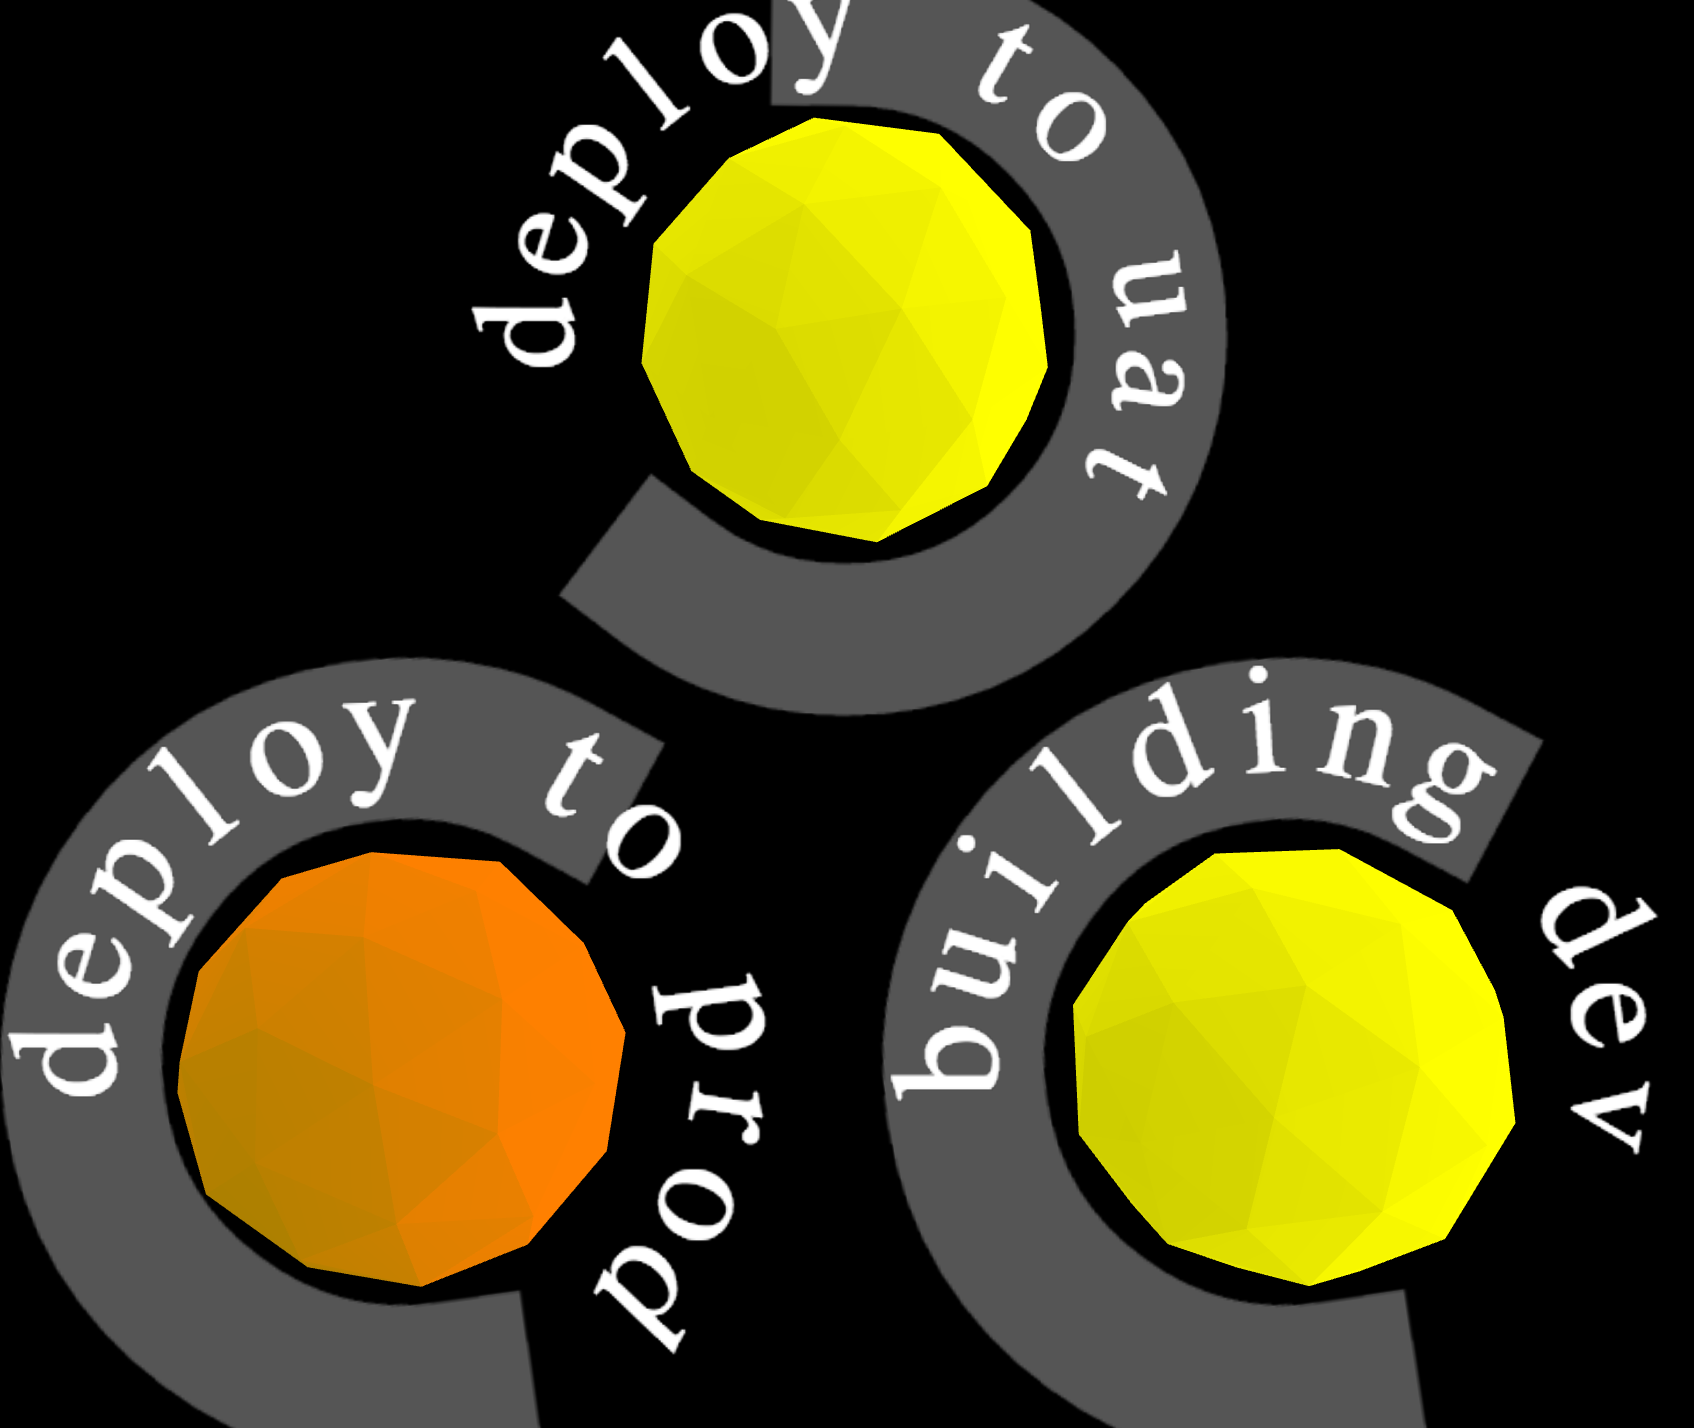
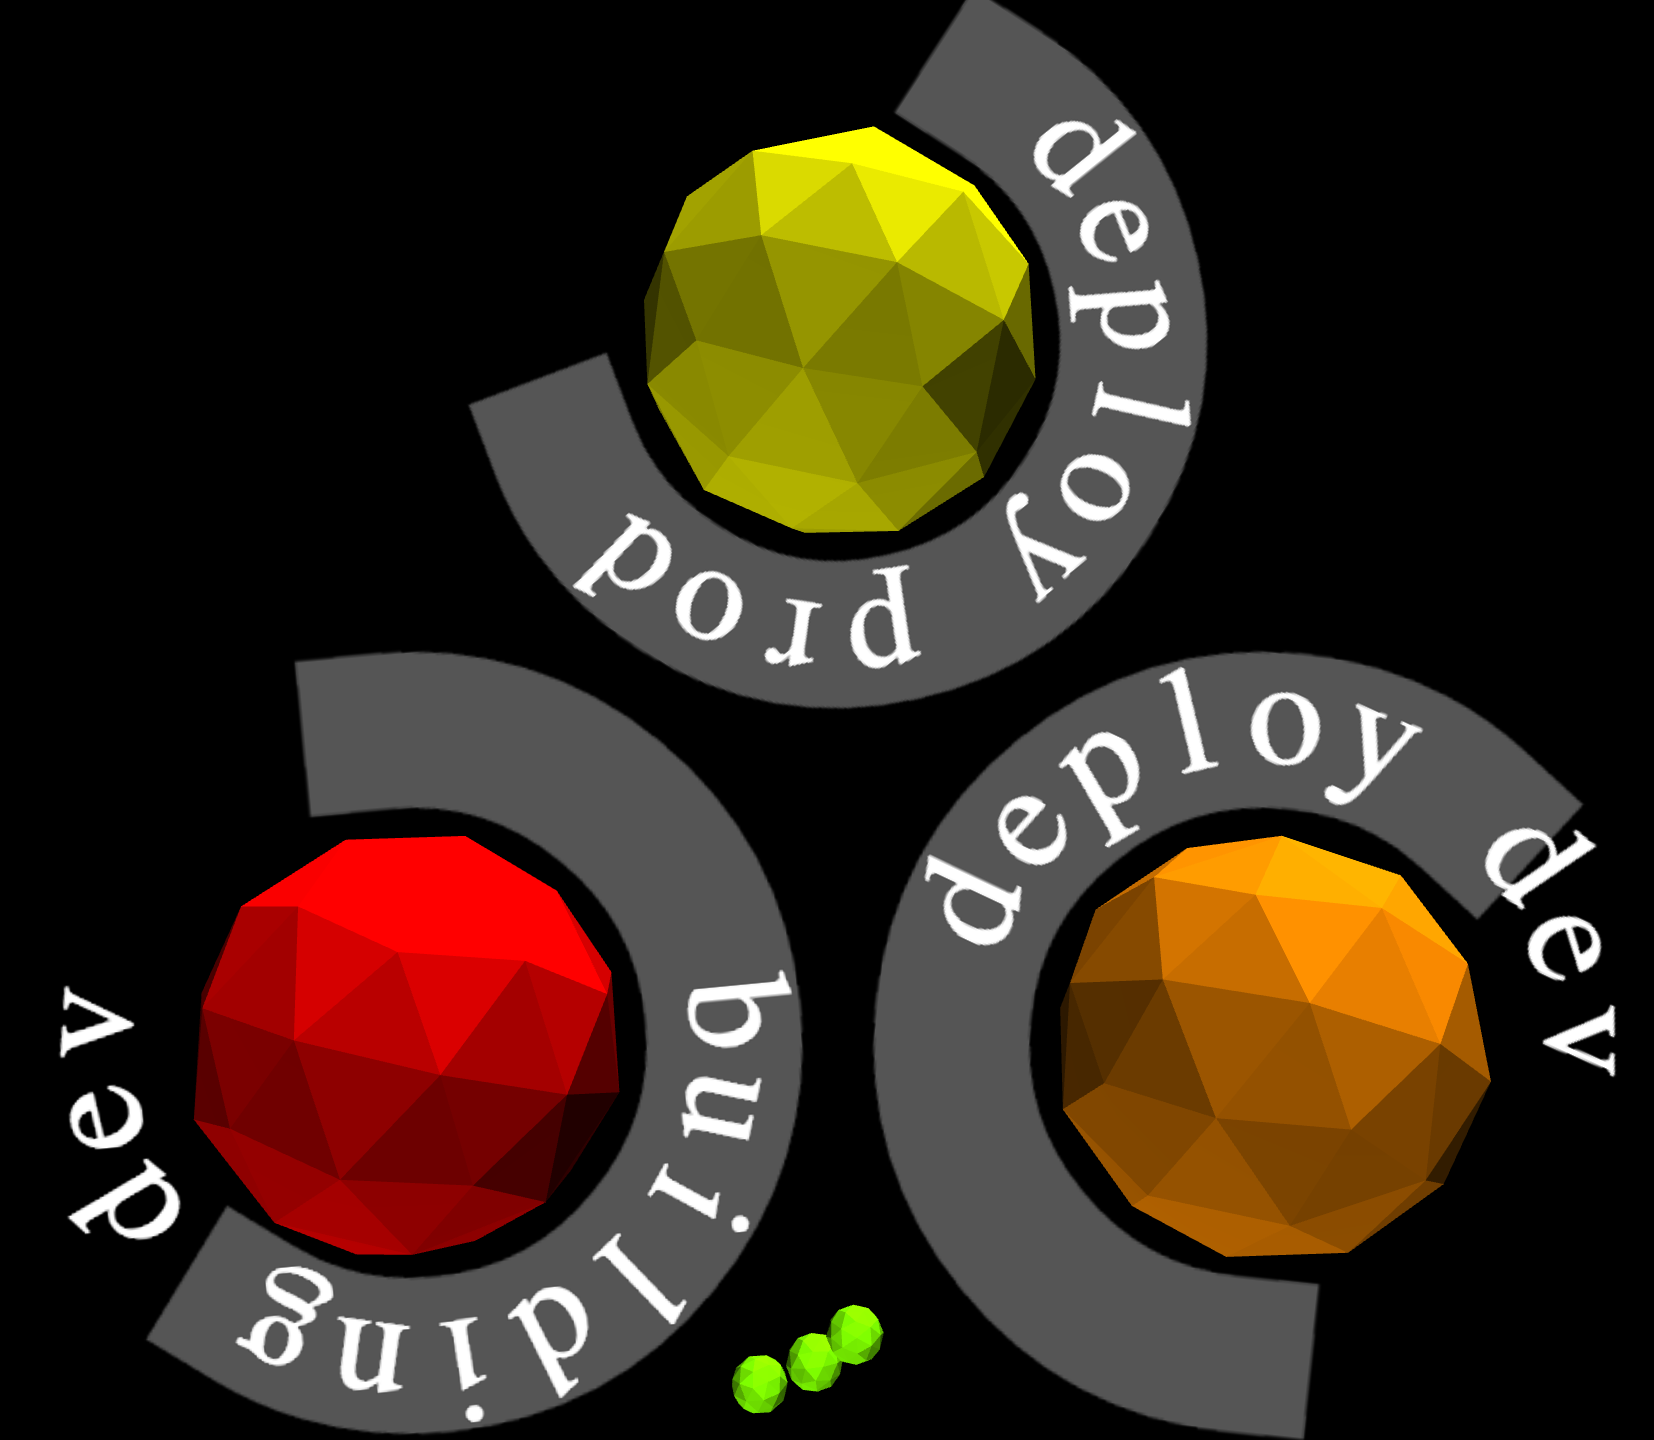
sanitised readme

diff --git a/README.md b/README.md
@@ -1,6 +1,17 @@
 # Balls
 
-A CI build radiator that radiates Balls worth looking at.
+If you want a build monitor/radiator, it should be worth looking at.
+
+Build monitors needs to be fun. Anyone can develop plain old html/css grid based view, play sounds etc.
+That stuff is like flash, old and needs to be replaced.
+
+Put this monitor on a TV, and you will never go back to any other monitor.
+A word of caution: You will find this radiator hard to look away from and may not be able to focus on your work.
+
+### Screenshots
+
+![Green balls](docs/all-green-balls.png)
+![Building balls](docs/balls-building.png)
 
 ### Setup without server side config
 
@@ -8,7 +19,7 @@ A CI build radiator that radiates Balls worth looking at.
 	2. launch browser at <hostname>:3000
 	3. Setup config right there.
 
-	Different teams can have their Balls pointing to their own CI server via browser config.
+	Since the config is UI based, different teams have full control over their configuration.
 
 ### Setup with server side config
 
@@ -17,30 +28,34 @@ A CI build radiator that radiates Balls worth looking at.
 	2. lein ring server
 	3. launch browser at <hostname>:3000
 
-	Note: You can still do custom include/exclude from browser.
-	All teams using will have their Balls pointing to the same CI server.
+	You cannot override cctray url. You can still do custom include/exclude from browser.
 
 ### Sounds
 
-Its understandable that you want your own sounds for your Balls.
+We love sounds. Sounds are played at 2 different event.
 
-	1. Copy your audio file(s) in resources/sounds folder. No need to restart Balls server.
+	1. When the build breaks.
+	2. When the build succeeds after it breaks.
+
+To have custom sounds:
+
+	1. Copy your audio file(s) in resources/sounds folder. No need to restart the server.
 	2. Reload page.
 	3. Select audio in UI controls.
 
 ### Ball Colors
 
-1. Green Ball is a healthy Ball.
-2. Yellow Ball is trying to go back to being healthy.
-3. Red Ball is a broken Ball.
-4. Orange Ball is trying to go back to being healthy after being broken.
+1. Green is healthy.
+2. Yellow is building.
+3. Red is broken.
+4. Orange is building after being Red.
 
 ### UI Controls
 
-1. Sound selection for Balls breaking.
-2. Sound selection for Balls becoming healthy after breaking.
-2. Toggle text rotation.
-3. Attraction/Repulsion for all the green Balls.
+1. Sound selection when build goes Red.
+2. Sound selection when build goes from Orange to Green.
+3. Toggle text rotation.
+4. Attraction/Repulsion for all the green balls.
 
 ### Supported CI Servers
 
@@ -50,18 +65,9 @@ Its understandable that you want your own sounds for your Balls.
 
 1. If webgl is not supported by browser/machine, it will not work.
    Use [nevergreen](https://github.com/build-canaries/nevergreen).
-   You just won't have any Balls.
-2. Balls requires some place to be stored. Browser local storage must be available.
+
+2. Local storage is required to save your config and UI controls.
 
 ### License
 
 Distributed under the Eclipse Public License.
-
-### One more thing
-
-I don't know anything about licenses.
-You clone it, you own it, they become your Balls.
-I am not responsible.
-
-![Green balls](docs/all-green-balls.png)
-![Building balls](docs/balls-building.png)
